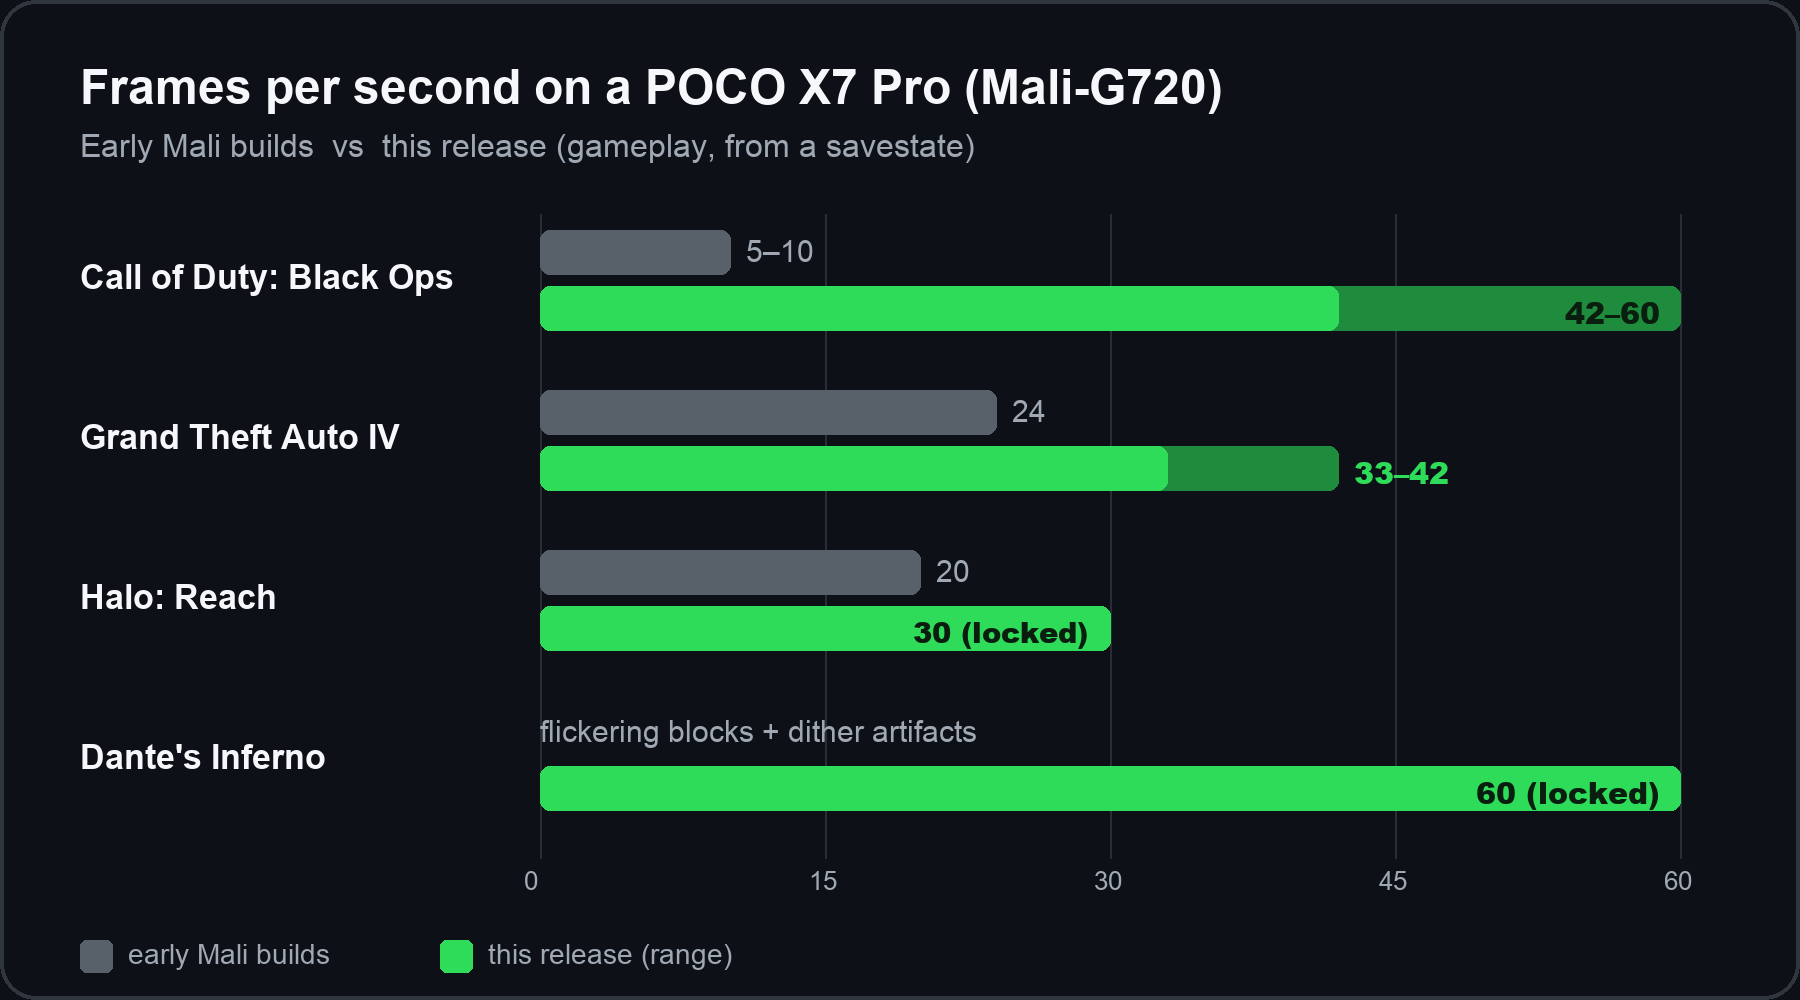
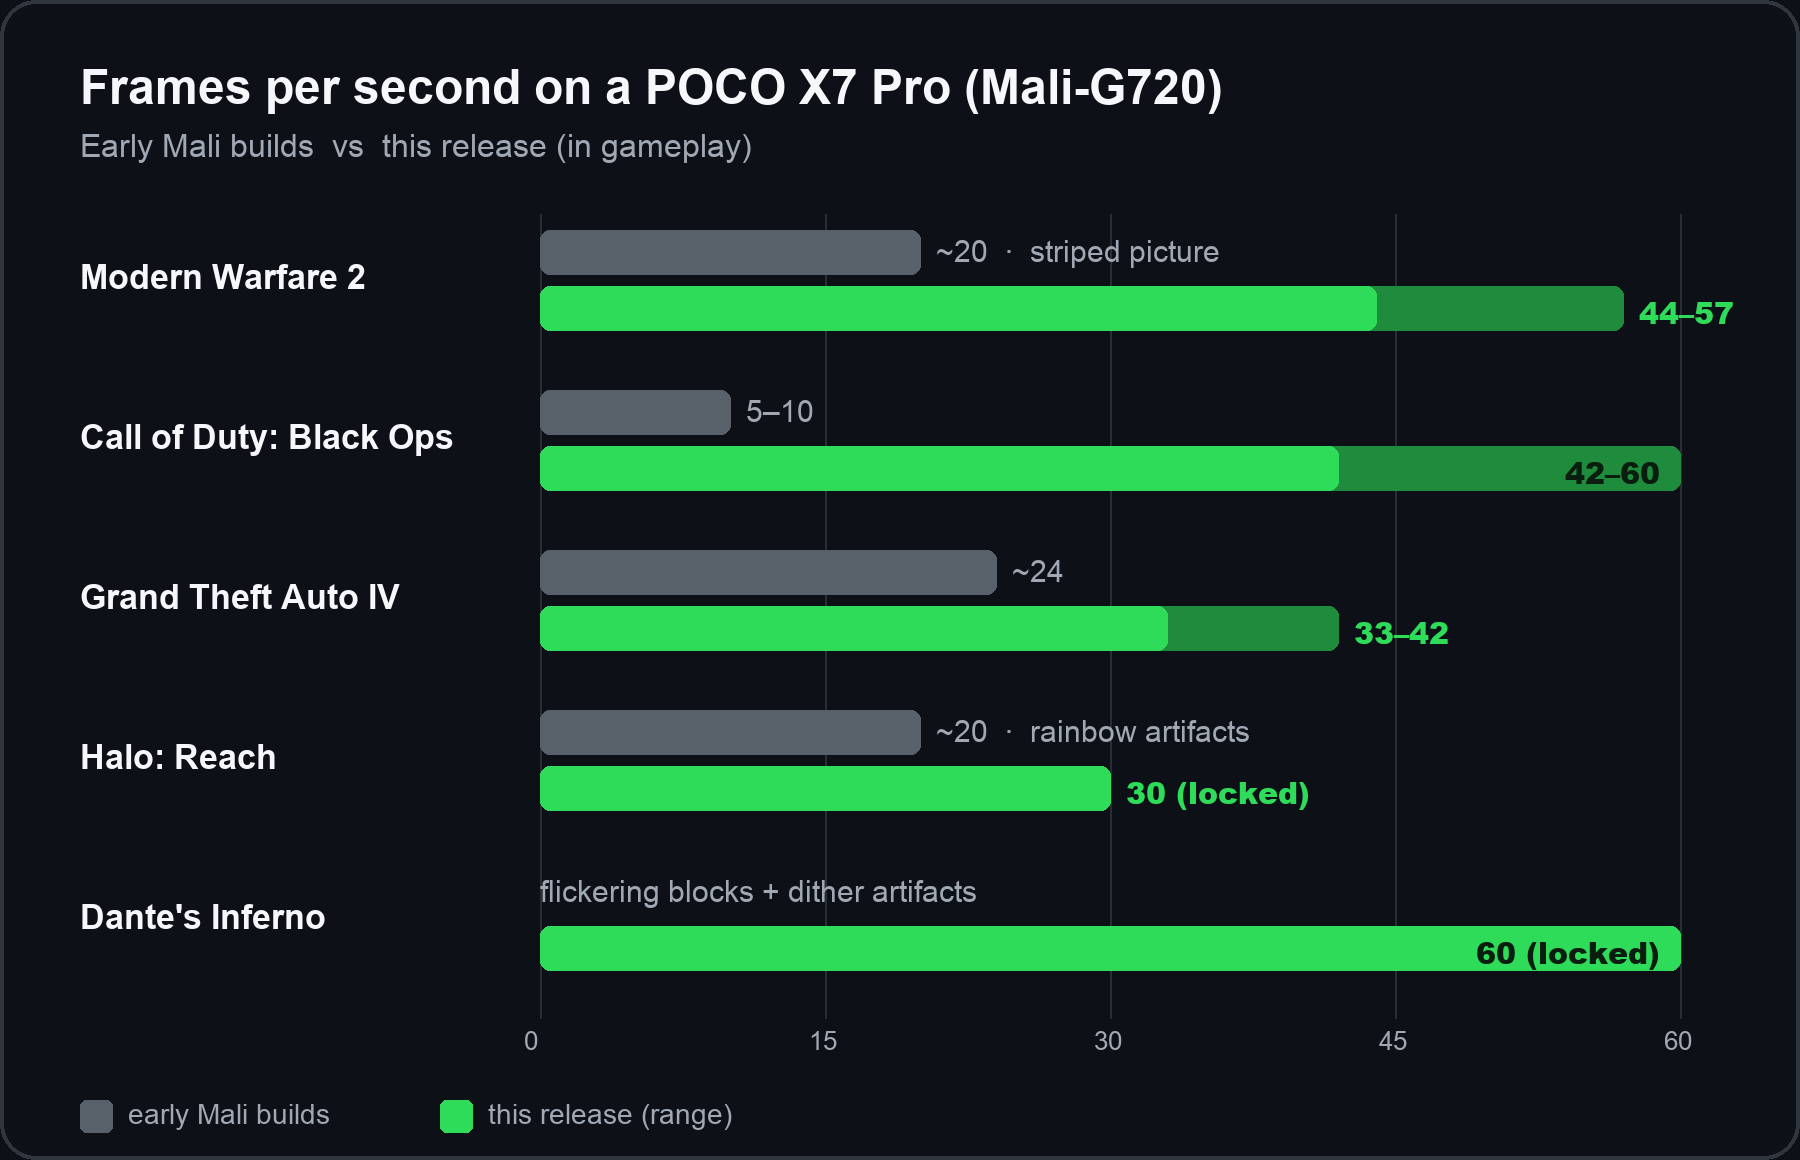
README: add Modern Warfare 2 to the performance chart and table, with the story of how it started

diff --git a/README.md b/README.md
@@ -68,6 +68,7 @@
 
 | Game | Early Mali builds | **This release** | What changed |
 |:--|:--:|:--:|:--|
+| Call of Duty: Modern Warfare 2 | ~20 fps, striped picture | **44–57 fps** | The first game of this fork: stripes and rainbow textures fixed; its tuning became the default for every game |
 | Call of Duty: Black Ops | 5–10 fps | **42–60 fps** | Global guest lock removed; memory coherency rebuilt |
 | Grand Theft Auto IV | 24 fps | **33–42 fps** | Fewer 4x transfers; black flashing fixed |
 | Halo: Reach | ~20 fps, rainbow artifacts | **30 fps** steady | MSAA 2×2 layout (+30%); rainbow fixed; GPU export copies cut from 24–34 MB to 0.3 MB per frame |
@@ -77,6 +78,21 @@
 </div>
 
 <sub>Measured on a POCO X7 Pro (Dimensity 8400, Mali-G720), in gameplay, with the guest refresh capped to the game's own vblank. Phones throttle when hot, so the ranges show cool vs warm runs. The MediaTek driver can also cap the GPU clock while charging.</sub>
+
+<details>
+<summary><b>🎯 Where it all started: Modern Warfare 2</b></summary>
+<br>
+
+Modern Warfare 2 was the first game this fork ran on a Mali phone, and most of the Mali work began there.
+
+- **The picture.** At first, gameplay was covered by horizontal stripes: rows of old frames that never went away. The cause was how rectangle lists were expanded on Mali. They now go through the vertex shader, and the stripes are gone. The rainbow-noise textures and particles were fixed next.
+- **The speed.** Profiling MW2 showed that the command processor, not the GPU, was the limit. A quarter of its time went into `mprotect` page watching. Pages the game rewrites every frame are now left unwatched, which cut CPU time per frame by 13–18%.
+- **The rest of the library.** The settings tuned on MW2 (and then Halo) became the defaults for every game. That single change took Black Ops from 5–10 fps to over 30, before any Black Ops-specific work.
+- **Heat matters.** MW2 also showed how hard a hot phone throttles: when the Mali cooling cap kicks in, MW2 drops from 57 to 27 fps. Since then, every change is judged on heat and CPU time per frame, not on fps alone.
+
+<sub>MW2 numbers come from an October build. It has no savestate yet, so it is not part of the current savestate bench.</sub>
+
+</details>
 
 Headroom, from the statistics box: Dante's Inferno holds its 60 fps lock with the GPU busy for **41–66%** of each frame and the CPU at **24–29%**, battery at 29–32 °C.
 
